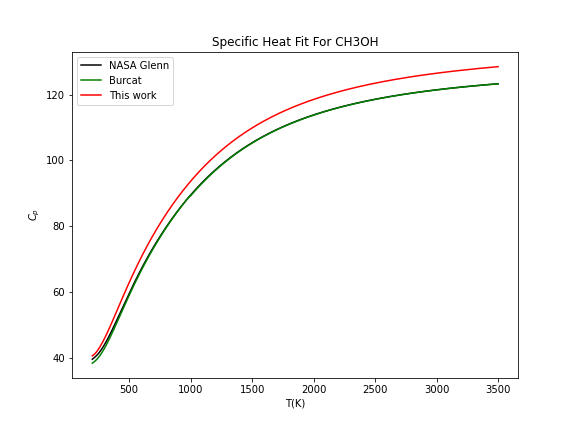
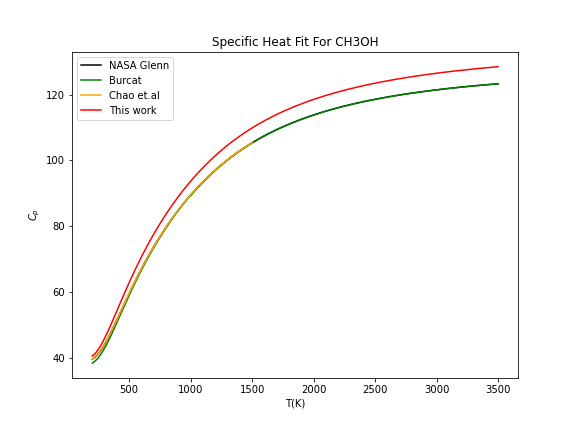
Add Chao's data for CH3OH and H2O2

diff --git a/Cp.py b/Cp.py
@@ -9,6 +9,111 @@ import warnings
 warnings.simplefilter('ignore', np.RankWarning)
 from scipy.optimize import curve_fit
 
+def create_split_dict_theorets():
+    # To improve the accuracy of polynomial fit, the temperature has been divided into several intervls
+    # The split points are used for determining the interval
+    split_list=[['GeH4']]
+    split=[[1]]    
+    split_dict=dict()
+    for i in range(len(split_list)):
+        for j in range(len(split_list[i])):
+            if split_list[i][j] not in split_dict:
+                split_dict[split_list[i][j]]=split[i]
+    return split_dict
+
+
+def get_Cp_theorets(R,split_dict):
+    Cp_dict=dict()
+    Tmax_dict=dict()
+    path = "Other_Cp/Theorets"
+    files= os.listdir(path) 
+    for file in tqdm(files): 
+        if ".txt" in file:
+            if not os.path.isdir(file): 
+                filename=path+"/"+file
+                species=file.split(".")[0]
+                print(species)
+                storepath="Cp_results"
+                storename=storepath+"/"+species+".csv"
+                # Read partition functions from database
+                T,Q=np.loadtxt(filename,usecols=(0,1),unpack=True)
+
+                # Get the value of split points
+                # The default split point is 200 where the specific heat starts
+                if species in split_dict:
+                    split=split_dict[species]
+                else:
+                    split=[200]
+
+                # Divide the original data into intervals
+                T_interval=[]
+                Q_interval=[]
+                for i in range(len(split)):
+                    if i < len(split)-1:
+                        if split[i]<split[i+1]:
+                            T_interval.append(T[(split[i]-1):split[i+1]])
+                            Q_interval.append(Q[(split[i]-1):split[i+1]])
+                    else:
+                        T_interval.append(T[(split[i]-1):])
+                        Q_interval.append(Q[(split[i]-1):])
+
+                # Calculate Cp interval by interval
+                for k in range(len(T_interval)):
+                    x=T_interval[k]
+                    y=Q_interval[k]
+
+                    # Determine the degree of the fitting polynomial
+                    n=0
+                    error_min=10e20
+                    for i in range(25):
+                        t=i+1
+                        z1 = np.polyfit(x,y,t) 
+                        p1= np.poly1d(z1)
+                        Qvals = p1(x)
+                        error=np.mean(np.abs(Qvals-y))
+                        if error < error_min:
+                            error_min=error
+                            n=t   
+
+                    # Polyfit the value to get derivative
+                    z1 = np.polyfit(x,y,n) 
+                    p1= np.poly1d(z1)
+                    Qvals = p1(x)
+                    dfx = p1.deriv() 
+                    ddfx = dfx.deriv()
+                    dQ=dfx(x)
+                    ddQ=ddfx(x)
+
+                    # Calculate specific heat
+                    Q1=x*dQ
+                    Q2=(x**2)*ddQ+2*Q1
+                    Cp_temp=R*((Q2/y)-(Q1/y)**2)+(5/2)*R
+                    for i in range(len(x)):
+                        t=float(x[i])    
+                        cp=float(Cp_temp[i])  
+                        if species in Cp_dict:
+                            Cp_dict[species][t]=cp
+                        else:
+                            Cp_dict[species]=dict()
+                            Cp_dict[species][t]=cp 
+
+                # Store Cp results to csv files
+                Cpdict_temp=Cp_dict[species]            
+                list_sorted=sorted(Cpdict_temp.items(),key=lambda item:item[0])
+                T_this=[]
+                Cp_this=[]
+                for i in range(len(list_sorted)):
+                    T_this.append(list_sorted[i][0])
+                    Cp_this.append(list_sorted[i][1])
+                # Cp_df=pd.DataFrame({'T(K)': T_this, 'Cp_Thiswork': Cp_this})
+                # Cp_df.to_csv(storename,index=False)
+
+                # Store the maximum temperature in HITRAN database
+                Tmax_this=T_this[-1]
+                Tmax=min(Tmax_this,6000)
+                Tmax_dict[species]=Tmax
+            
+    return Cp_dict
 
 
 # Create the dictionary storing the split points for each species
@@ -452,6 +557,14 @@ def compare_and_plot_Cp(Cp_dict,Tmax_dict,Cp_JANAF,coe_Capitelli,coe_nasa,coe_Bu
             T_Gurvich,Cp_Gurvich=np.loadtxt("Other_Cp/O2_Gurvich.txt",usecols=(0,1),unpack=True)
             plt.scatter(T_Gurvich,Cp_Gurvich,color="orange",marker="x",label="Gurvich")
 
+        if species=='H2O2':
+            T_Chao,Cp_Chao=np.loadtxt("Other_Cp/H2O2_Chao.txt",usecols=(0,1),unpack=True)
+            plt.plot(T_Chao,Cp_Chao,color="orange",label="Chao et.al")
+
+        if species=='CH3OH':
+            T_Chao,Cp_Chao=np.loadtxt("Other_Cp/CH3OH_Chao.txt",usecols=(0,1),unpack=True)
+            plt.plot(T_Chao,Cp_Chao,color="orange",label="Chao et.al")
+
         if species=='NH3':
             other_data=True
             T_SS,Cp_SS=np.loadtxt("Other_Cp/NH3_Sousa_Silva.txt",usecols=(0,1),unpack=True) 
@@ -720,6 +833,8 @@ if __name__ == '__main__':
     Cp_dict,Tmax_hitran=get_Cp(R,split_dict)
 
     # Read the specific heat results from other sources
+    split_dict_theorets=create_split_dict_theorets()
+    Cp_theorets=get_Cp_theorets(R,split_dict_theorets)
     Cp_JANAF=get_JANAF()
     coe_Capitelli=get_Capitelli()
     coe_Burcat=get_Burcat()
@@ -747,111 +862,7 @@ coe_Capitelli=get_Capitelli()
 coe_Capitelli['CO']
 # %%
 # %%
-def create_split_dict_theorets():
-    # To improve the accuracy of polynomial fit, the temperature has been divided into several intervls
-    # The split points are used for determining the interval
-    split_list=[['GeH4']]
-    split=[[1]]    
-    split_dict=dict()
-    for i in range(len(split_list)):
-        for j in range(len(split_list[i])):
-            if split_list[i][j] not in split_dict:
-                split_dict[split_list[i][j]]=split[i]
-    return split_dict
 
-# %%
-def get_Cp_theorets(R,split_dict):
-    Cp_dict=dict()
-    Tmax_dict=dict()
-    path = "Other_Cp/Theorets"
-    files= os.listdir(path) 
-    for file in tqdm(files): 
-        if ".txt" in file:
-            if not os.path.isdir(file): 
-                filename=path+"/"+file
-                species=file.split(".")[0]
-                print(species)
-                storepath="Cp_results"
-                storename=storepath+"/"+species+".csv"
-                # Read partition functions from database
-                T,Q=np.loadtxt(filename,usecols=(0,1),unpack=True)
-
-                # Get the value of split points
-                # The default split point is 200 where the specific heat starts
-                if species in split_dict:
-                    split=split_dict[species]
-                else:
-                    split=[200]
-
-                # Divide the original data into intervals
-                T_interval=[]
-                Q_interval=[]
-                for i in range(len(split)):
-                    if i < len(split)-1:
-                        if split[i]<split[i+1]:
-                            T_interval.append(T[(split[i]-1):split[i+1]])
-                            Q_interval.append(Q[(split[i]-1):split[i+1]])
-                    else:
-                        T_interval.append(T[(split[i]-1):])
-                        Q_interval.append(Q[(split[i]-1):])
-
-                # Calculate Cp interval by interval
-                for k in range(len(T_interval)):
-                    x=T_interval[k]
-                    y=Q_interval[k]
-
-                    # Determine the degree of the fitting polynomial
-                    n=0
-                    error_min=10e20
-                    for i in range(25):
-                        t=i+1
-                        z1 = np.polyfit(x,y,t) 
-                        p1= np.poly1d(z1)
-                        Qvals = p1(x)
-                        error=np.mean(np.abs(Qvals-y))
-                        if error < error_min:
-                            error_min=error
-                            n=t   
-
-                    # Polyfit the value to get derivative
-                    z1 = np.polyfit(x,y,n) 
-                    p1= np.poly1d(z1)
-                    Qvals = p1(x)
-                    dfx = p1.deriv() 
-                    ddfx = dfx.deriv()
-                    dQ=dfx(x)
-                    ddQ=ddfx(x)
-
-                    # Calculate specific heat
-                    Q1=x*dQ
-                    Q2=(x**2)*ddQ+2*Q1
-                    Cp_temp=R*((Q2/y)-(Q1/y)**2)+(5/2)*R
-                    for i in range(len(x)):
-                        t=float(x[i])    
-                        cp=float(Cp_temp[i])  
-                        if species in Cp_dict:
-                            Cp_dict[species][t]=cp
-                        else:
-                            Cp_dict[species]=dict()
-                            Cp_dict[species][t]=cp 
-
-                # Store Cp results to csv files
-                Cpdict_temp=Cp_dict[species]            
-                list_sorted=sorted(Cpdict_temp.items(),key=lambda item:item[0])
-                T_this=[]
-                Cp_this=[]
-                for i in range(len(list_sorted)):
-                    T_this.append(list_sorted[i][0])
-                    Cp_this.append(list_sorted[i][1])
-                # Cp_df=pd.DataFrame({'T(K)': T_this, 'Cp_Thiswork': Cp_this})
-                # Cp_df.to_csv(storename,index=False)
-
-                # Store the maximum temperature in HITRAN database
-                Tmax_this=T_this[-1]
-                Tmax=min(Tmax_this,6000)
-                Tmax_dict[species]=Tmax
-            
-    return Cp_dict
 
 # %%
 R=8.314 # Universal gas constant
